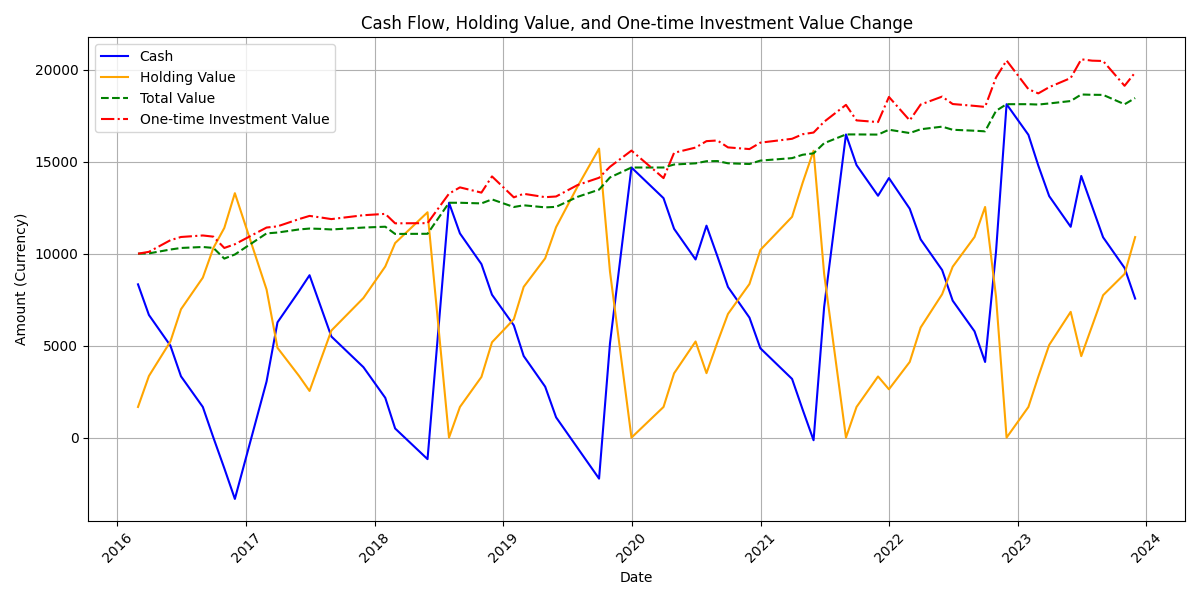
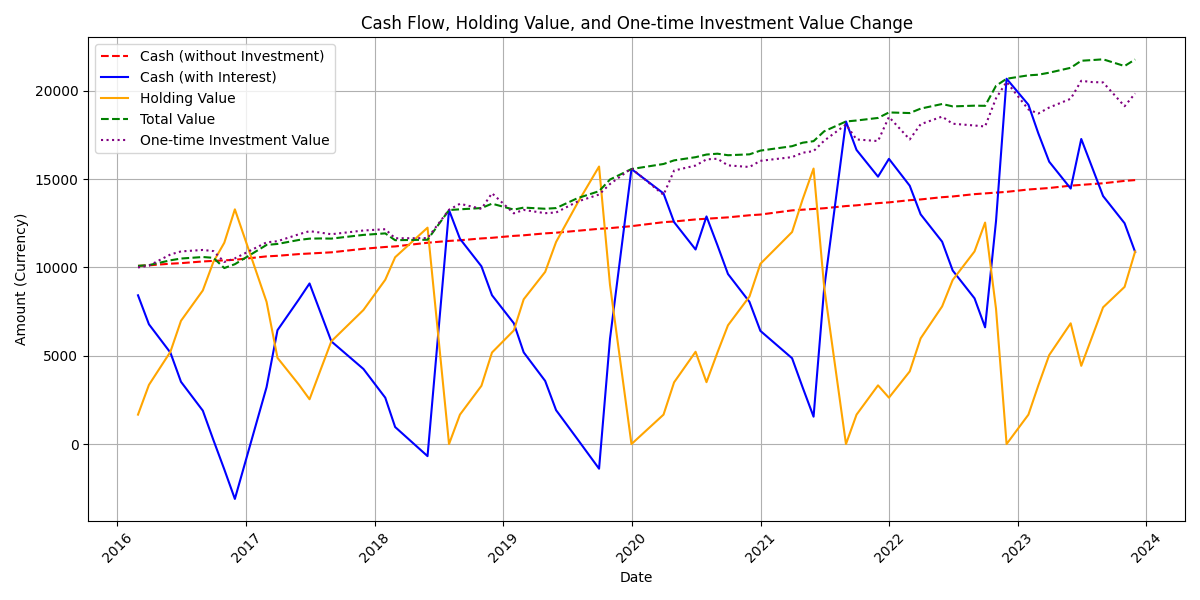
add cash_growth_without_investment

Changed region(s): [[0.0308, 0.09, 0.9867, 0.78], [0.0308, 0.09, 0.0617, 0.18], [0.185, 0.78, 0.2158, 0.81]]

diff --git a/test.py b/test.py
@@ -8,13 +8,15 @@ class CustomInvestmentStrategy:
         self.start_date = start_date
         self.end_date = end_date
         self.total_investment = total_investment
+        self.cash_growth_without_investment = total_investment
         self.investment_frequency = investment_frequency
         self.status = []
         self.holding = 0
         self.cash = total_investment
         self.last_price = None
         self.holding_cost = 0  # 当前持仓的成本
-        
+        self.daily_interest_rate = 0.0001  # 银行每日利率 0.01%
+        self.last_investment_date = pd.to_datetime(start_date)  # 上一次投资日期
         # 获取基金数据
         self.fund_data = xa.fundinfo(fund_code)
         self.get_price_data()
@@ -47,6 +49,7 @@ class CustomInvestmentStrategy:
         current_recovery_months = 0  # 当前回升月份计数
 
         for date in times:
+            
             price_row = self.price_data[self.price_data['date'] == date]
 
             if not price_row.empty:
@@ -72,6 +75,12 @@ class CustomInvestmentStrategy:
 
         # 开始投资模拟
         for date in times:
+            # 计算从上一次投资到当前日期的天数
+            days_diff = (date - self.last_investment_date).days
+            
+            # 更新现金的增长
+            self.cash *= (1 + self.daily_interest_rate) ** days_diff
+            self.cash_growth_without_investment = self.cash_growth_without_investment * (1 + self.daily_interest_rate) ** days_diff
             price_row = self.price_data[self.price_data['date'] == date]
 
             if not price_row.empty:
@@ -125,11 +134,18 @@ class CustomInvestmentStrategy:
                 print(f"在 {date.date()} 卖出三分之一，持仓: {self.holding}, 现金: {self.cash}")
 
             self.last_price = price
+            self.last_investment_date = date  # 更新最后投资日期
 
             # 记录状态
             total_value = self.cash + self.holding * price
-            self.status.append({'date': date, 'price': price, 'holding': self.holding,
-                                'cash': self.cash, 'total_value': total_value})
+            self.status.append({
+            'date': date, 
+            'price': price, 
+            'holding': self.holding,
+            'cash': self.cash, 
+            'cash_growth_without_investment': self.cash_growth_without_investment,  # 添加这一行
+            'total_value': total_value
+        })
 
             # 每次投资后减少剩余月份
             #remaining_months -= 1
@@ -170,12 +186,17 @@ class CustomInvestmentStrategy:
         
         # 一次性买入后的总价值
         one_time_investment_value = self.total_investment * (self.status['price'] / self.status['price'].iloc[0])  # 假设一次性买入在开始时的价格
+        
 
-        plt.plot(self.status['date'], self.status['cash'], label='Cash', color='blue')
+
+        
+        # 绘制图表
+        plt.plot(self.status['date'], self.status['cash_growth_without_investment'], label='Cash (without Investment)', color='red', linestyle='--')  # 只绘制不投资的现金增长
+        plt.plot(self.status['date'], self.status['cash'], label='Cash (with Interest)', color='blue')
         plt.plot(self.status['date'], self.status['holding'] * self.status['price'], label='Holding Value', color='orange')
         plt.plot(self.status['date'], total_value, label='Total Value', color='green', linestyle='--')  # 添加总资金曲线
-        plt.plot(self.status['date'], one_time_investment_value, label='One-time Investment Value', color='red', linestyle='-.')  # 添加一次性买入后的总价值曲线
-        
+        plt.plot(self.status['date'], one_time_investment_value, label='One-time Investment Value', color='purple', linestyle=':')  # 添加一次性买入后的总价值曲线
+
         plt.title('Cash Flow, Holding Value, and One-time Investment Value Change')
         plt.xlabel('Date')
         plt.ylabel('Amount (Currency)')
@@ -185,7 +206,6 @@ class CustomInvestmentStrategy:
         plt.tight_layout()
         plt.savefig('cash_flow_change.png')  # 保存为图像文件
         plt.show()
-
     def plot_total_profit_rate(self):
         plt.figure(figsize=(12, 6))
         plt.plot(self.status['date'], self.status['profit_rate'], marker='o', linestyle='-', color='green')
